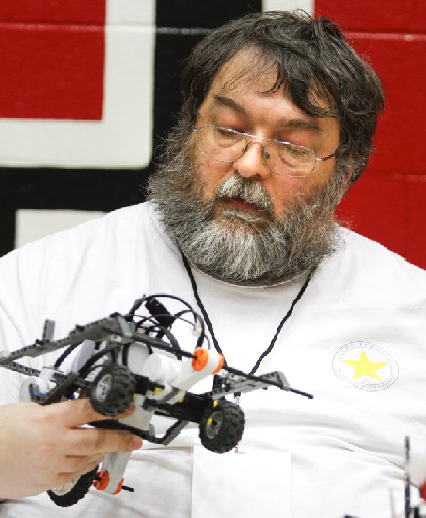
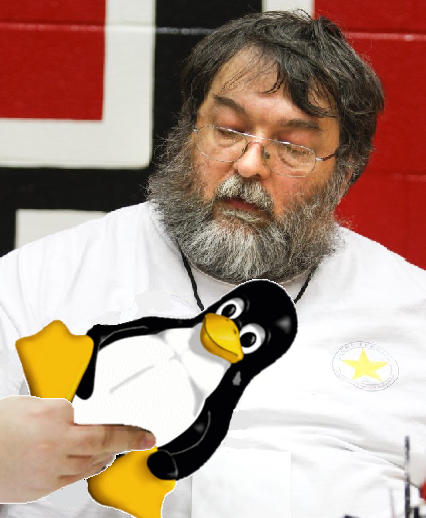
Added picture, and responsive bar and penis

Changed region(s): [[0.0, 0.5251, 0.7324, 1.0]]

diff --git a/vdifile.cpp b/vdifile.cpp
@@ -207,7 +207,6 @@ void VdiFile::transferToLocalFS(CSCI5806::ext2File *sourceFile, QDir *destDir) {
     OutputFileIntoLocalFS.close();
 }
 
-
 void VdiFile::loadLocalFile(InodeTable* InodeTab, unsigned int size, unsigned int inodeIndexNum, fstream& input , ofstream& localFile){
 
     cout << "The size of this field is " << size << " bytes" << endl;
@@ -381,41 +380,16 @@ unsigned long long VdiFile::triplyIndirectPointersValues(unsigned long long bloc
 // end of doublyindirect
 }
 
-
 void VdiFile::transferToVDI(CSCI5806::ext2Folder *VDIFolder, QModelIndex *index, QFileInfo *sourceFile) {
     qDebug() << "destination folder on VDI " << VDIFolder->getName() << " source file local FS " << sourceFile->absoluteFilePath();
     //open file,check to make sure its open
     string sourceDir = sourceFile->absoluteFilePath().toStdString();
     InputFileIntoVdiFS.open(sourceDir.c_str(), ios::in|ios::binary|ios::ate);
 
-/*
-    trialToDekstop.open("/Users/Andy/Desktop/trial.txt", ios::in|ios::out|ios::binary);
-    if (InputFileIntoVdiFS.is_open()){
-        cout << hex << "File is open and is ready to go" << endl;
-        }
-
-    InputFileIntoVdiFS.seekg(1);
-    InputFileIntoVdiFS >> noskipws;
-    string inputString;
-
-    for(int i=0; i< 32; i++){
-        InputData->push_back((char) InputFileIntoVdiFS.get());
-        //cout << "The value at " << i << " is: " << InputData->at(i) << " with a total size of: " << InputData->size() << " ..." << InputData->length() << endl;
-        inputString=inputString+InputData->at(i);
-
-
-    }
-    cout << "We got here after vector" << inputString << endl;
-    cout << "The length of the string is" << InputData->length() << endl;
-
-
-    trialToDekstop.seekp(32|ios::beg);
-    trialToDekstop.write(inputString.c_str(),InputData->length());
-
-    trialToDekstop.close();
-    */
-
     cout << "The size of that file was " << InputFileIntoVdiFS.tellg() << endl;
+
+    if(InputFileIntoVdiFS.tellg() > 3000)
+        QMessageBox::information(NULL, tr("Upload Time"), tr("Your upload may take a little time. Please click 'OK' to start download and please do not click off of this window until complete..."));
 
     //get folder table
     InodeTable *tab = VDIFolder->getInodeTable();
@@ -807,7 +781,6 @@ void VdiFile::allocateBlockPointers(unsigned int i_block[], unsigned int fileSiz
     newAddresses.clear();
 }
 
-
 void VdiFile::addBlockPointers(unsigned int block_num, unsigned int numberOfBlocksToAllocate, fstream& input, QVector<unsigned int> *blocks){
     QVector <unsigned char> bytesToAdd;
     unsigned int buffer;
@@ -825,7 +798,6 @@ void VdiFile::addBlockPointers(unsigned int block_num, unsigned int numberOfBloc
     long long offset = fsManager->getBlockOffset(block_num);
     addBytesToFile(&bytesToAdd,offset,input);
 }
-
 
 void VdiFile::writeToVDIFS(InodeTable* InodeTab, unsigned int size, unsigned int inodeIndexNum, fstream& input , ifstream& localFile){
 
@@ -850,7 +822,7 @@ void VdiFile::writeToVDIFS(InodeTable* InodeTab, unsigned int size, unsigned int
             size=size-block_size;
             cout << "The current size in direct is: " << size << endl;
             //cout << "Size "<< size << "  block size " << block_size << " differ" << (size-block_size) << endl;
-            //emit progressUpdate ((FileSizeForProgressBar-size)/(FileSizeForProgressBar/100));
+            emit progressUpdate ((FileSizeForProgressBar-size)/(FileSizeForProgressBar/100));
             //cout << "We are out of the loop right now" << endl;
             }
         else{
@@ -862,7 +834,7 @@ void VdiFile::writeToVDIFS(InodeTable* InodeTab, unsigned int size, unsigned int
                 }
             size =0;
             cout << "The current size in direct is: " << size << endl;
-            //emit progressUpdate ((FileSizeForProgressBar-size)/(FileSizeForProgressBar/100));
+            emit progressUpdate ((FileSizeForProgressBar-size)/(FileSizeForProgressBar/100));
             }
         cout << "We are in the direct with Inode Index num" << inodeIndexNum << endl;
         addBytesToFile(&addToFile,offset,input);
@@ -872,17 +844,17 @@ void VdiFile::writeToVDIFS(InodeTable* InodeTab, unsigned int size, unsigned int
         cout << "The block pointer to the singly indirect is: " << hex << InodeTab->i_block[inodeIndexNum] << endl;
         cout << "Entering Singly Indirect..." << endl;
         size = singlyIndirectPointersValuesWrite(InodeTab->i_block[inodeIndexNum],input,localFile,size);
-        //emit progressUpdate ((FileSizeForProgressBar-size)/(FileSizeForProgressBar/100));
+        emit progressUpdate ((FileSizeForProgressBar-size)/(FileSizeForProgressBar/100));
         }
     else if (inodeIndexNum ==13)    {
         cout << "Entering Doubly Indirect..." << endl;
         size = doublyIndirectPointersValuesWrite(InodeTab->i_block[inodeIndexNum],input,localFile,size);
-        //emit progressUpdate ((FileSizeForProgressBar-size)/(FileSizeForProgressBar/100));
+        emit progressUpdate ((FileSizeForProgressBar-size)/(FileSizeForProgressBar/100));
         }
     else if (inodeIndexNum ==14)    {
         cout << "Entering Triply Indirect..." << endl;
         size = triplyIndirectPointersValuesWrite(InodeTab->i_block[inodeIndexNum],input,localFile,size);
-        //emit progressUpdate ((FileSizeForProgressBar-size)/(FileSizeForProgressBar/100));
+        emit progressUpdate ((FileSizeForProgressBar-size)/(FileSizeForProgressBar/100));
         }
 
     inodeIndexNum++;
@@ -948,7 +920,7 @@ unsigned long long VdiFile::singlyIndirectPointersValuesWrite(unsigned long long
         addToFile.clear();
         if(size == 0) break;
 
-        //emit progressUpdate ((FileSizeForProgressBar-size)/(FileSizeForProgressBar/100));
+        emit progressUpdate ((FileSizeForProgressBar-size)/(FileSizeForProgressBar/100));
  }
 
 
@@ -972,7 +944,7 @@ unsigned long long VdiFile::doublyIndirectPointersValuesWrite(unsigned long long
     while(doublyIterator < DoublyIndirectPointers->size() && DoublyIndirectPointers->at(doublyIterator) !=0 && size>0){
         //offset = bootBlockLocation+(block_size * (DoublyIndirectPointers->at(doublyIterator)));
               size = singlyIndirectPointersValuesWrite(DoublyIndirectPointers->at(doublyIterator),input,localFile,size);
-        //emit progressUpdate ((FileSizeForProgressBar-size)/(FileSizeForProgressBar/100));
+        emit progressUpdate ((FileSizeForProgressBar-size)/(FileSizeForProgressBar/100));
         doublyIterator++;
         qDebug() << "Doubly Indirect..." << endl;
         if(size == 0) break;
@@ -999,7 +971,7 @@ unsigned long long VdiFile::triplyIndirectPointersValuesWrite(unsigned long long
     while(triplyIterator < TriplyIndirectPointers->size() && TriplyIndirectPointers->at(triplyIterator) !=0 && size>0){
         //offset = bootBlockLocation+(block_size * (DoublyIndirectPointers->at(doublyIterator)));
                size = doublyIndirectPointersValuesWrite(TriplyIndirectPointers->at(triplyIterator),input,localFile,size);
-        //emit progressUpdate ((FileSizeForProgressBar-size)/(FileSizeForProgressBar/100));
+        emit progressUpdate ((FileSizeForProgressBar-size)/(FileSizeForProgressBar/100));
         triplyIterator++;
         qDebug() << "Triply Indirect..." << endl;
         if(size == 0) break;

diff --git a/mainwindow.cpp b/mainwindow.cpp
@@ -56,6 +56,11 @@ MainWindow::MainWindow(QWidget *parent) :
     QFont newFont("Courier", 12, QFont::Bold, false);
     WELCOME_BOX.setWindowTitle("VDI File Transfer - Morgan, Hovanec");
     WELCOME_BOX.setFont(newFont);
+    WELCOME_BOX.setBaseSize(1900,550);
+    WELCOME_BOX.setMinimumWidth(700);
+    WELCOME_BOX.setMinimumHeight(500);
+    WELCOME_BOX.setMaximumWidth(700);
+    WELCOME_BOX.setMaximumHeight(500);
     WELCOME_BOX.setInformativeText("                   WELCOME! \n \n \n"
                                    "Thank you for choosing the Morgan/Hovanec VDI File Transfer System \n\n"
                                    "This program was built for YSU CSCI 5806: Operating Systems \n \n"
@@ -67,25 +72,34 @@ MainWindow::MainWindow(QWidget *parent) :
                                    "          - tbhovanec@student.ysu.edu \n \n\n\n\n ");
     WELCOME_BOX.informativeText();
     WELCOME_BOX.setDetailedText("                   WELCOME! \n \n \n"
-                                "Thank you for choosing the Morgan/Hovanec VDI File Transfer System \n\n"
-                                "This program was built for YSU CSCI 5806: Operating Systems \n \n"
+                                "Thank you for choosing the Morgan/Hovanec VDI File Transfer System! \n\n"
+                                "This program was built for YSU CSCI 5806: Operating Systems \n"
+                                "We will now be able to transfer information in AND out of a ext2 filesystem \n"
+                                "contained within a vdi file.\n\n"
                                 "Instructor: Dr. Robert Kramer \n"
                                 "          - rwkramer@ysu.edu \n\n"
                                 "Students: Andrew Morgan \n"
-                                "          - asmorgan@student.ysu.edu \n \n"
+                                "          - asmorgan@student.ysu.edu \n\n"
                                 "          Tyler Hovanec \n"
-                                "          - tbhovanec@student.ysu.edu \n \n\n\n\n "
+                                "          - tbhovanec@student.ysu.edu \n \n\n\n\n"
                                 "More Information About Course:\n"
                                 "   CSCI 5806: Operating Systems \n"
                                 "   Department of Computer Science Information Systems\n"
                                 "   Youngstown State University\n"
                                 "   1 University Plaza\n"
                                 "   Youngstown, OH 44555\n"
-                                "Built in QT for Windows using MinGW Compiler\n\n\n"
+                                "Built in QT 5.51 for Windows using MinGW Compiler\n\n\n"
                                 "Objective: \n\n"
                                 "   - Read in Virtualbox VDI File containing an EXT2 Filesytem\n"
                                 "   - Read and Write files into and out of the VDI files\n"
-                                "   - Be able to update tables and bitmaps without causing system error\n");
+                                "   - Be able to update tables and bitmaps without causing system error\n\n"
+                                "Documentation: \n"
+                                "This is an interactive GUI that will update the .vdi file as we move files\n"
+                                "in and out of it. We will also have access to all files on the local machine. \n"
+                                "Number of corrupted .vdi files making this: 46\n"
+                                "Number of working hours: 240+\n"
+                                "Number of lines of code: ~3600\n"
+                                "Number of OS students who had a great time: 2 \n");
     WELCOME_BOX.setParent(this);
 
     WELCOME_BOX.exec();
@@ -227,6 +241,7 @@ void MainWindow::processProgressUpdate(int value) {
     static int oldValue = -1;
     if (oldValue != value)
         progress->setValue(value);
+        QApplication::processEvents(QEventLoop::ExcludeUserInputEvents);
     oldValue = value;
     if (value == 100) {
         QTimer::singleShot(8000, this, SLOT(hideStatusBar()));
